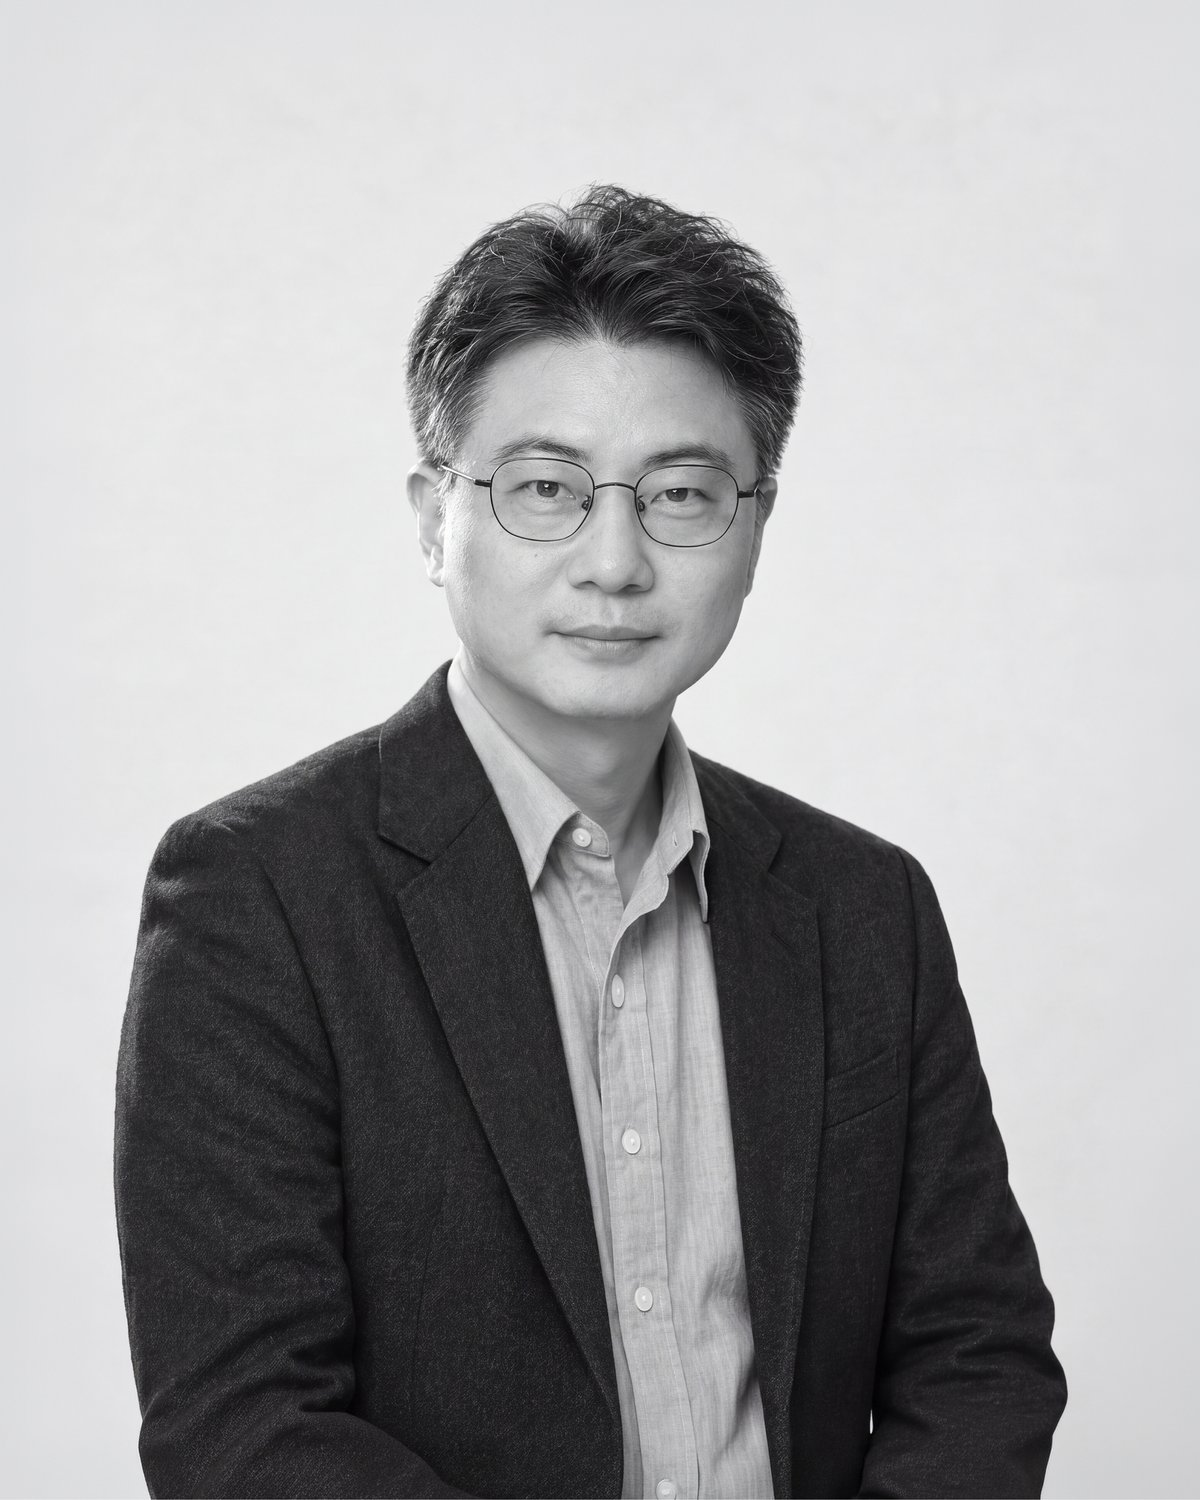
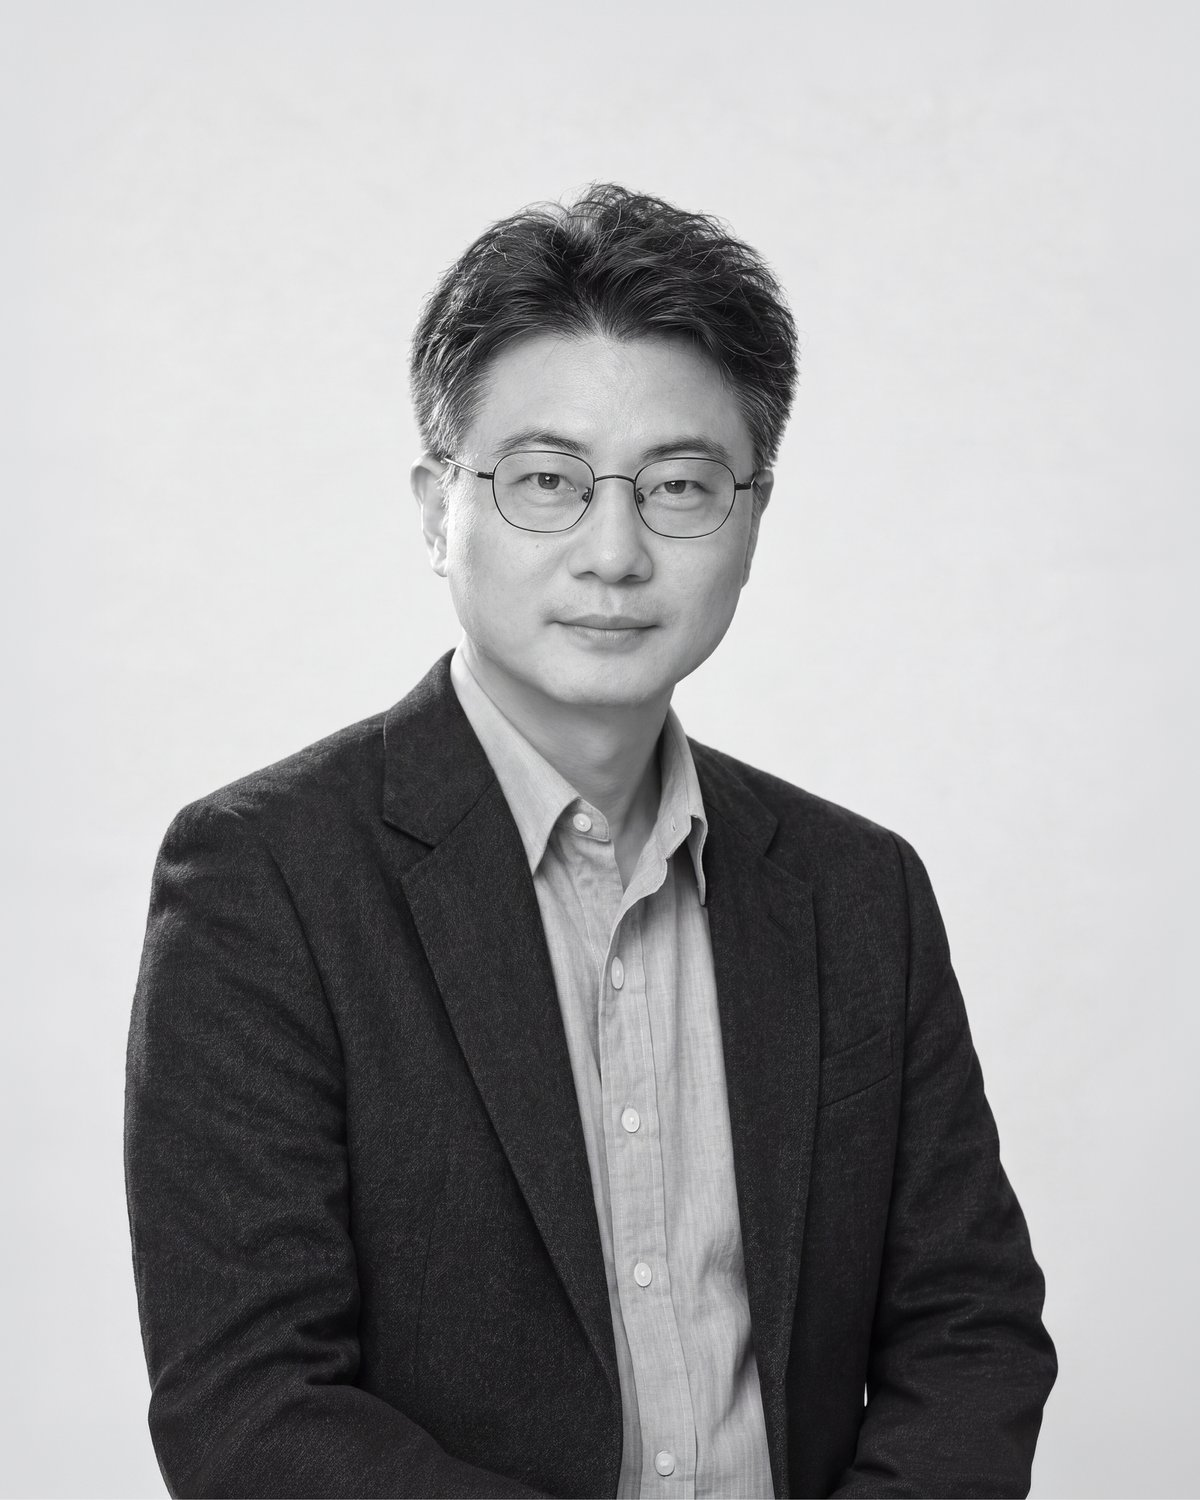
feat : 교수진 사진 드라이브 최신본으로 교체

diff --git a/src/data/faculty.ts b/src/data/faculty.ts
@@ -1,6 +1,6 @@
 // 더미 데이터 — USE_MOCK 모드에서 src/lib/api 가 반환. 백엔드 연결 후엔 참고용.
 // 이름·직책·학력·순서: 교수진 정보 스프레드시트 '메인페이지' 시트 기준 (직책별 가나다 순, 학부장 맨 앞)
-// 사진: 드라이브 '교수진 사진_1차 생성본' (최수신 교수님은 사진 준비 중이라 Figma 원본 유지)
+// 사진: 드라이브 '교수진 사진_1차 생성본' (26명 전체)
 import type { Faculty } from "@/types/faculty";
 import { FACULTY_DETAILS } from "./faculty-detail";
 
